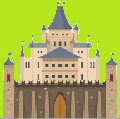
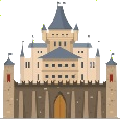
Редизайн меню базы, Прозрачный фон базы.

diff --git a/src/Base.cpp b/src/Base.cpp
@@ -4,7 +4,7 @@
 Base::Base(State& state, const DrawPriority& priority, int health, const Tile& top)
     : Entity(state, priority, health, health), top_left_(top) {
   sprite_.setPosition(480, 0);
-  icon_sprite_.setPosition(650, 125);
+  icon_sprite_.setPosition(630, 220);
 }
 
 std::vector<sf::Text> Base::GetInfo() const {
@@ -12,9 +12,9 @@ std::vector<sf::Text> Base::GetInfo() const {
       .GetOrLoadResource("assets/font/default.ttf");
 
   sf::Text name("Main base", font);
-  InitText(name, 650, 250, 15, sf::Color::Red);
-  sf::Text health_info(std::to_string(health_), font);
-  InitText(health_info, 650, 275, 15);
+  InitText(name, 650, 200, 15, sf::Color::Red);
+  sf::Text health_info("Health: " + std::to_string(health_), font);
+  InitText(health_info, 620, 340, 15);
 
   return {name, health_info};
 }
